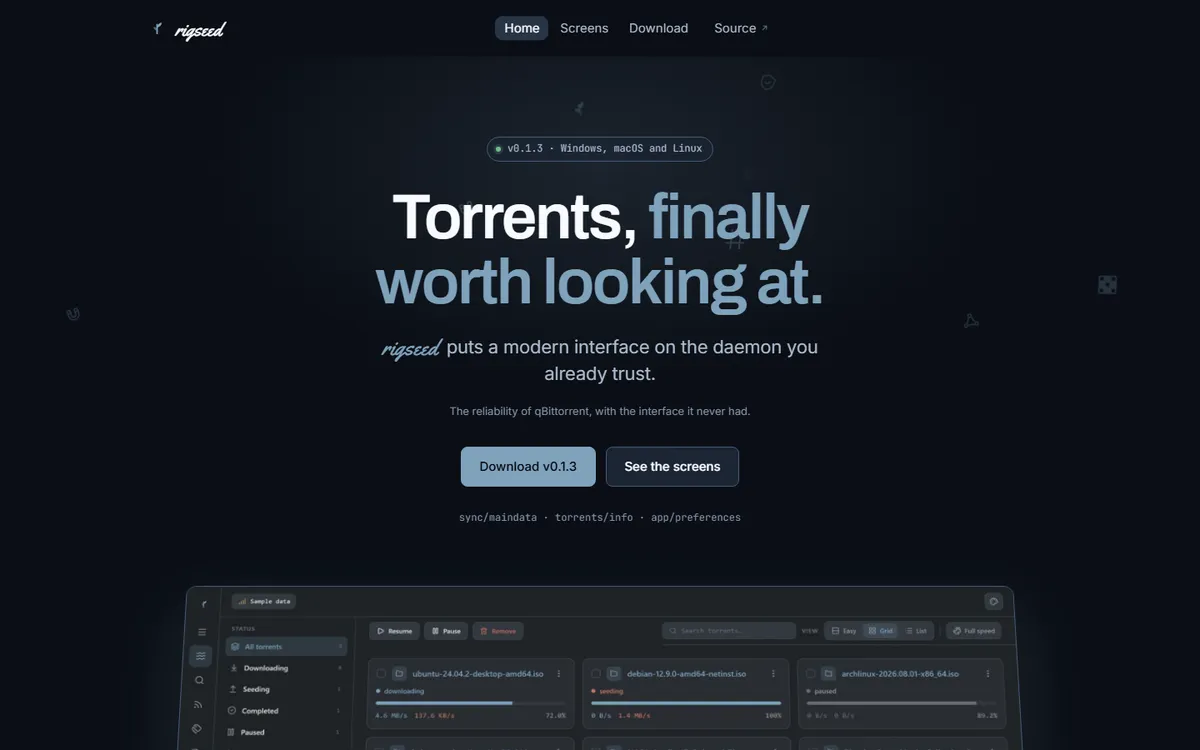
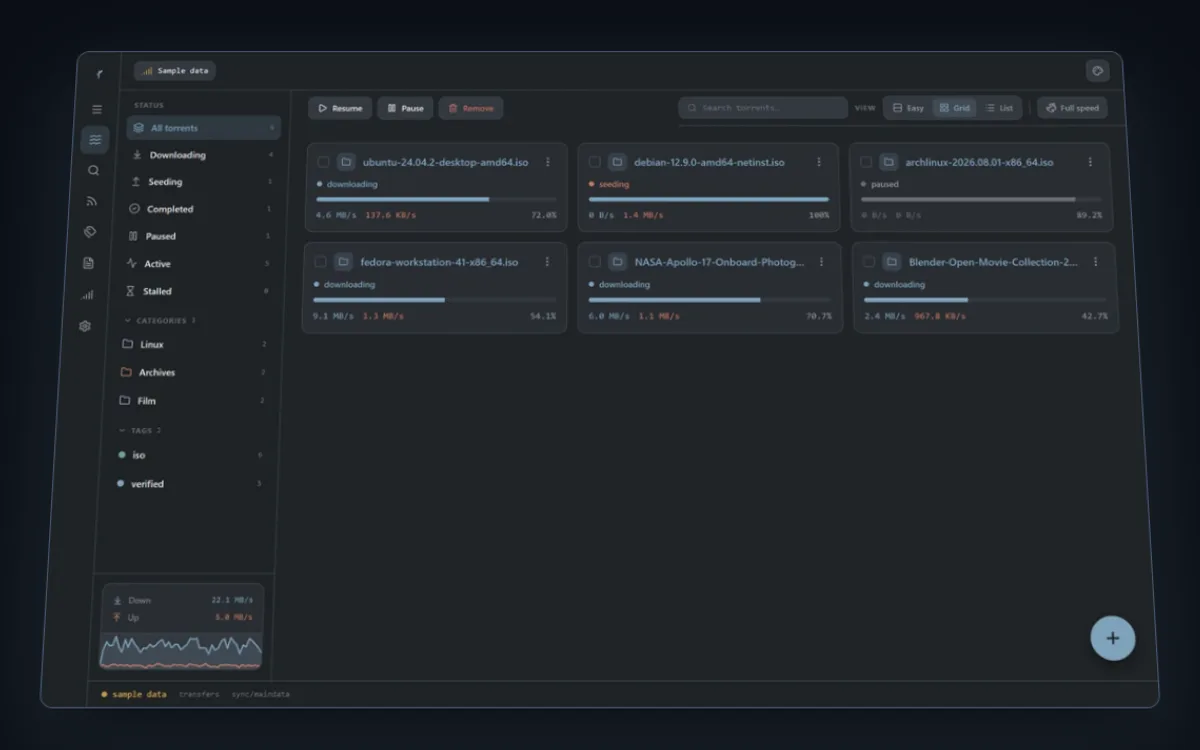
fix: recapture the rigseed image with the whole app window in frame

diff --git a/src/content/studio.ts b/src/content/studio.ts
@@ -30,7 +30,7 @@ export const studio = {
         { label: 'Website', href: 'https://verastack-labs.github.io/rigseed/' },
         { label: 'Source', href: 'https://github.com/verastack-labs/rigseed-app' },
       ],
-      image: { src: '/studio/rigseed.webp', alt: 'The rigseed landing page, with the torrent list under the headline' },
+      image: { src: '/studio/rigseed.webp', alt: 'The rigseed app: a sidebar of torrent filters beside a grid of downloads with speeds and progress' },
     },
     {
       slug: 'riggit',
